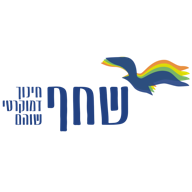
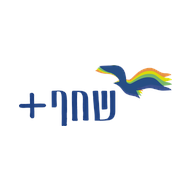
feat: הלוגו החדש של שחף+ בכל המערכת
הלוגו החדש (השחף + הכיתוב "שחף+") הוחלף בכל הנכסים הגרפיים:

- public/logo.png — נחתך לגבולות התוכן והרקע הלבן הוסר. השקיפות
  נעשתה במילוי מהשוליים ולא בסף גלובלי, כדי שלבן שכלוא בתוך
  האותיות לא ייחור
- אייקוני האפליקציה (192/512/apple-touch) — הלוגו ממורכז על רקע
  לבן עם שוליים. רקע לבן ולא שקוף, כדי ש-iOS לא ירכיב אותו על שחור
  וכדי שחיתוך ה-maskable של אנדרואיד לא יבלע את הכיתוב
- favicon בגודל 32/64 — השחף בלבד, כי הכיתוב אינו קריא בגודל הזה.
  הופק בזיהוי הרכיב הקשיר של הציפור, כדי שלא ייגררו שאריות אותיות
- index.html הפנה קודם ל-logo.png מלא (62KB) בכל התפקידים; עכשיו
  כל תפקיד מקבל את הקובץ המתאים לו
- favicon.svg נמחק — הוא נשא את המיתוג הישן ואף אחד לא הפנה אליו

מכיוון שהלוגו שקוף עכשיו, בכל מקום שבו הוא יושב על משטח שמתהפך
לכהה הוספתי לו רקע בהיר: מסך הטעינה, האונבורדינג, וסרגל העליון
בנייד. במסך ההתחברות המשטח כבר היה לבן במצב בהיר בלבד — קיבעתי
אותו ללבן, כי הסמל בכחול כהה ונועד לרקע בהיר.

נבדק בדפדפן בשני מצבי הצבע: הלוגו נטען, קריא, ואין גלישה אופקית.

Claude-Session: https://claude.ai/code/session_0172DmZmcEyK6o9TjdH8HSqC

Changed region(s): [[0.0, 0.2812, 1.0, 0.6875]]

diff --git a/index.html b/index.html
@@ -2,8 +2,9 @@
 <html lang="he" dir="rtl">
   <head>
     <meta charset="UTF-8" />
-    <link rel="icon" type="image/png" sizes="192x192" href="/logo.png" />
-    <link rel="icon" type="image/png" sizes="32x32" href="/logo.png" />
+    <link rel="icon" type="image/png" sizes="32x32" href="/favicon-32.png" />
+    <link rel="icon" type="image/png" sizes="64x64" href="/favicon-64.png" />
+    <link rel="icon" type="image/png" sizes="192x192" href="/icon-192.png" />
     <meta name="viewport" content="width=device-width, initial-scale=1.0, viewport-fit=cover" />
     <title>שחף+</title>
 
@@ -16,7 +17,7 @@
     <meta name="apple-mobile-web-app-capable" content="yes" />
     <meta name="apple-mobile-web-app-status-bar-style" content="default" />
     <meta name="apple-mobile-web-app-title" content="שחף+" />
-    <link rel="apple-touch-icon" href="/logo.png" />
+    <link rel="apple-touch-icon" href="/apple-touch-icon.png" />
   </head>
   <body>
     <div id="root"></div>

diff --git a/src/App.jsx b/src/App.jsx
@@ -57,7 +57,9 @@ const OnboardingPage             = lazy(() => import('./pages/family/OnboardingP
 
 const Spinner = () => (
   <div className="flex flex-col items-center justify-center h-screen bg-gray-50 dark:bg-gray-900">
-    <img src="/logo.png" alt="שחף+" className="h-16 w-auto mb-6 opacity-80" />
+    <div className="bg-white/95 rounded-2xl px-5 py-3 mb-6 shadow-sm">
+      <img src="/logo.png" alt="שחף+" className="h-14 w-auto" />
+    </div>
     <div className="w-8 h-8 border-2 border-primary-400 border-t-transparent rounded-full animate-spin" />
   </div>
 )

diff --git a/src/pages/auth/LoginPage.jsx b/src/pages/auth/LoginPage.jsx
@@ -181,7 +181,7 @@ export default function LoginPage() {
       <div className="relative w-full max-w-md">
         {/* Logo */}
         <div className="text-center mb-8">
-          <div className="bg-white rounded-3xl shadow-modal px-8 py-5 inline-block mb-3 dark:bg-gray-800">
+          <div className="bg-white rounded-3xl shadow-modal px-8 py-5 inline-block mb-3">
             <img src="/logo.png" alt="שחף+" className="h-20 w-auto mx-auto" />
           </div>
           <p className="text-white/90 text-sm">הפלטפורמה הקהילתית שלנו</p>

diff --git a/src/pages/family/OnboardingPage.jsx b/src/pages/family/OnboardingPage.jsx
@@ -108,7 +108,9 @@ export default function OnboardingPage() {
 
   return (
     <div className="min-h-screen bg-gray-50 flex flex-col items-center px-4 py-8 dark:bg-gray-900" dir="rtl">
-      <img src="/logo.png" alt="שחף+" className="h-12 w-auto mb-6 opacity-80" />
+      <div className="bg-white/95 rounded-2xl px-5 py-3 mb-6 shadow-sm">
+        <img src="/logo.png" alt="שחף+" className="h-10 w-auto" />
+      </div>
 
       {/* Progress dots */}
       <div className="flex items-center gap-2 mb-8">

diff --git a/src/components/layout/AppShell.jsx b/src/components/layout/AppShell.jsx
@@ -543,7 +543,9 @@ export default function AppShell() {
           {pageTitle ? (
             <span className="font-bold text-gray-800 dark:text-gray-100 text-sm">{pageTitle}</span>
           ) : (
-            <img src="/logo.png" alt="שחף+" className="h-8 w-auto" />
+            <span className="bg-white/95 rounded-lg px-2 py-1">
+              <img src="/logo.png" alt="שחף+" className="h-7 w-auto" />
+            </span>
           )}
           <button
             onClick={toggleTheme}

diff --git a/vite.config.js b/vite.config.js
@@ -21,7 +21,7 @@ export default defineConfig(({ mode }) => ({
     react(),
     VitePWA({
       registerType: 'autoUpdate',
-      includeAssets: ['favicon.svg', 'favicon-32.png', 'apple-touch-icon.png', 'logo.png'],
+      includeAssets: ['favicon-32.png', 'favicon-64.png', 'apple-touch-icon.png', 'logo.png', 'mark.png'],
       manifest: {
         name: 'שחף+',
         short_name: 'שחף+',
